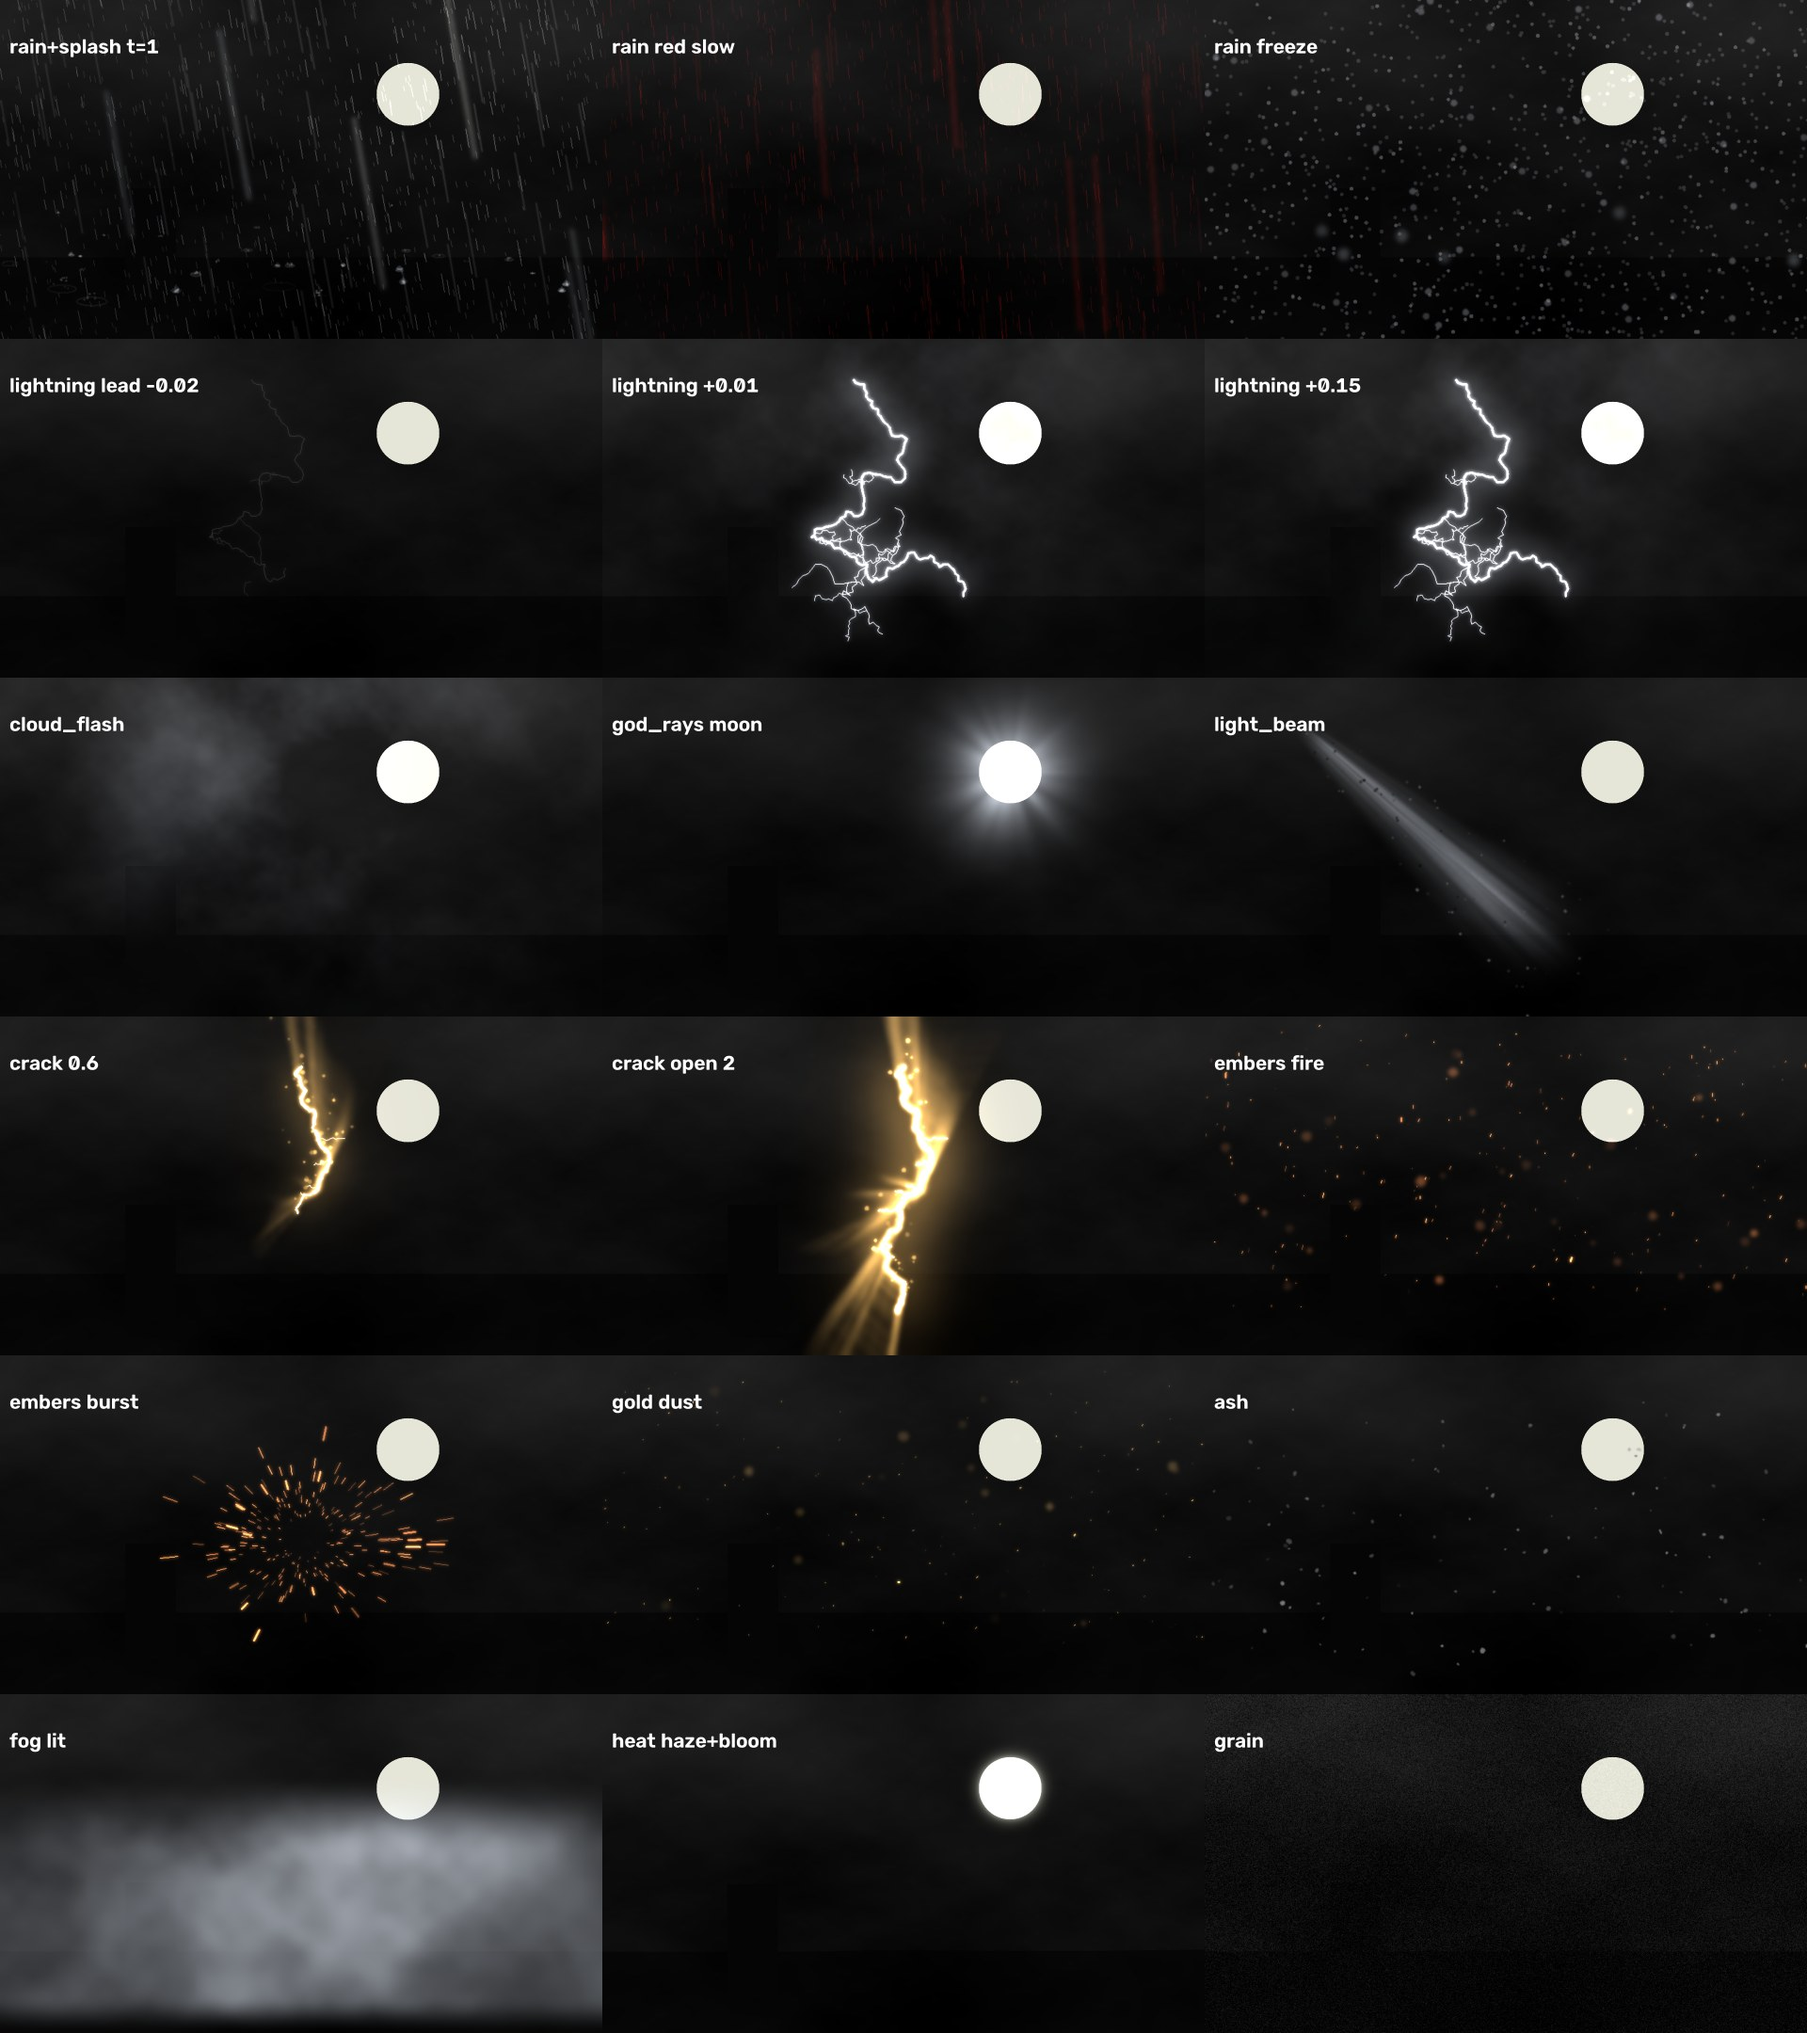
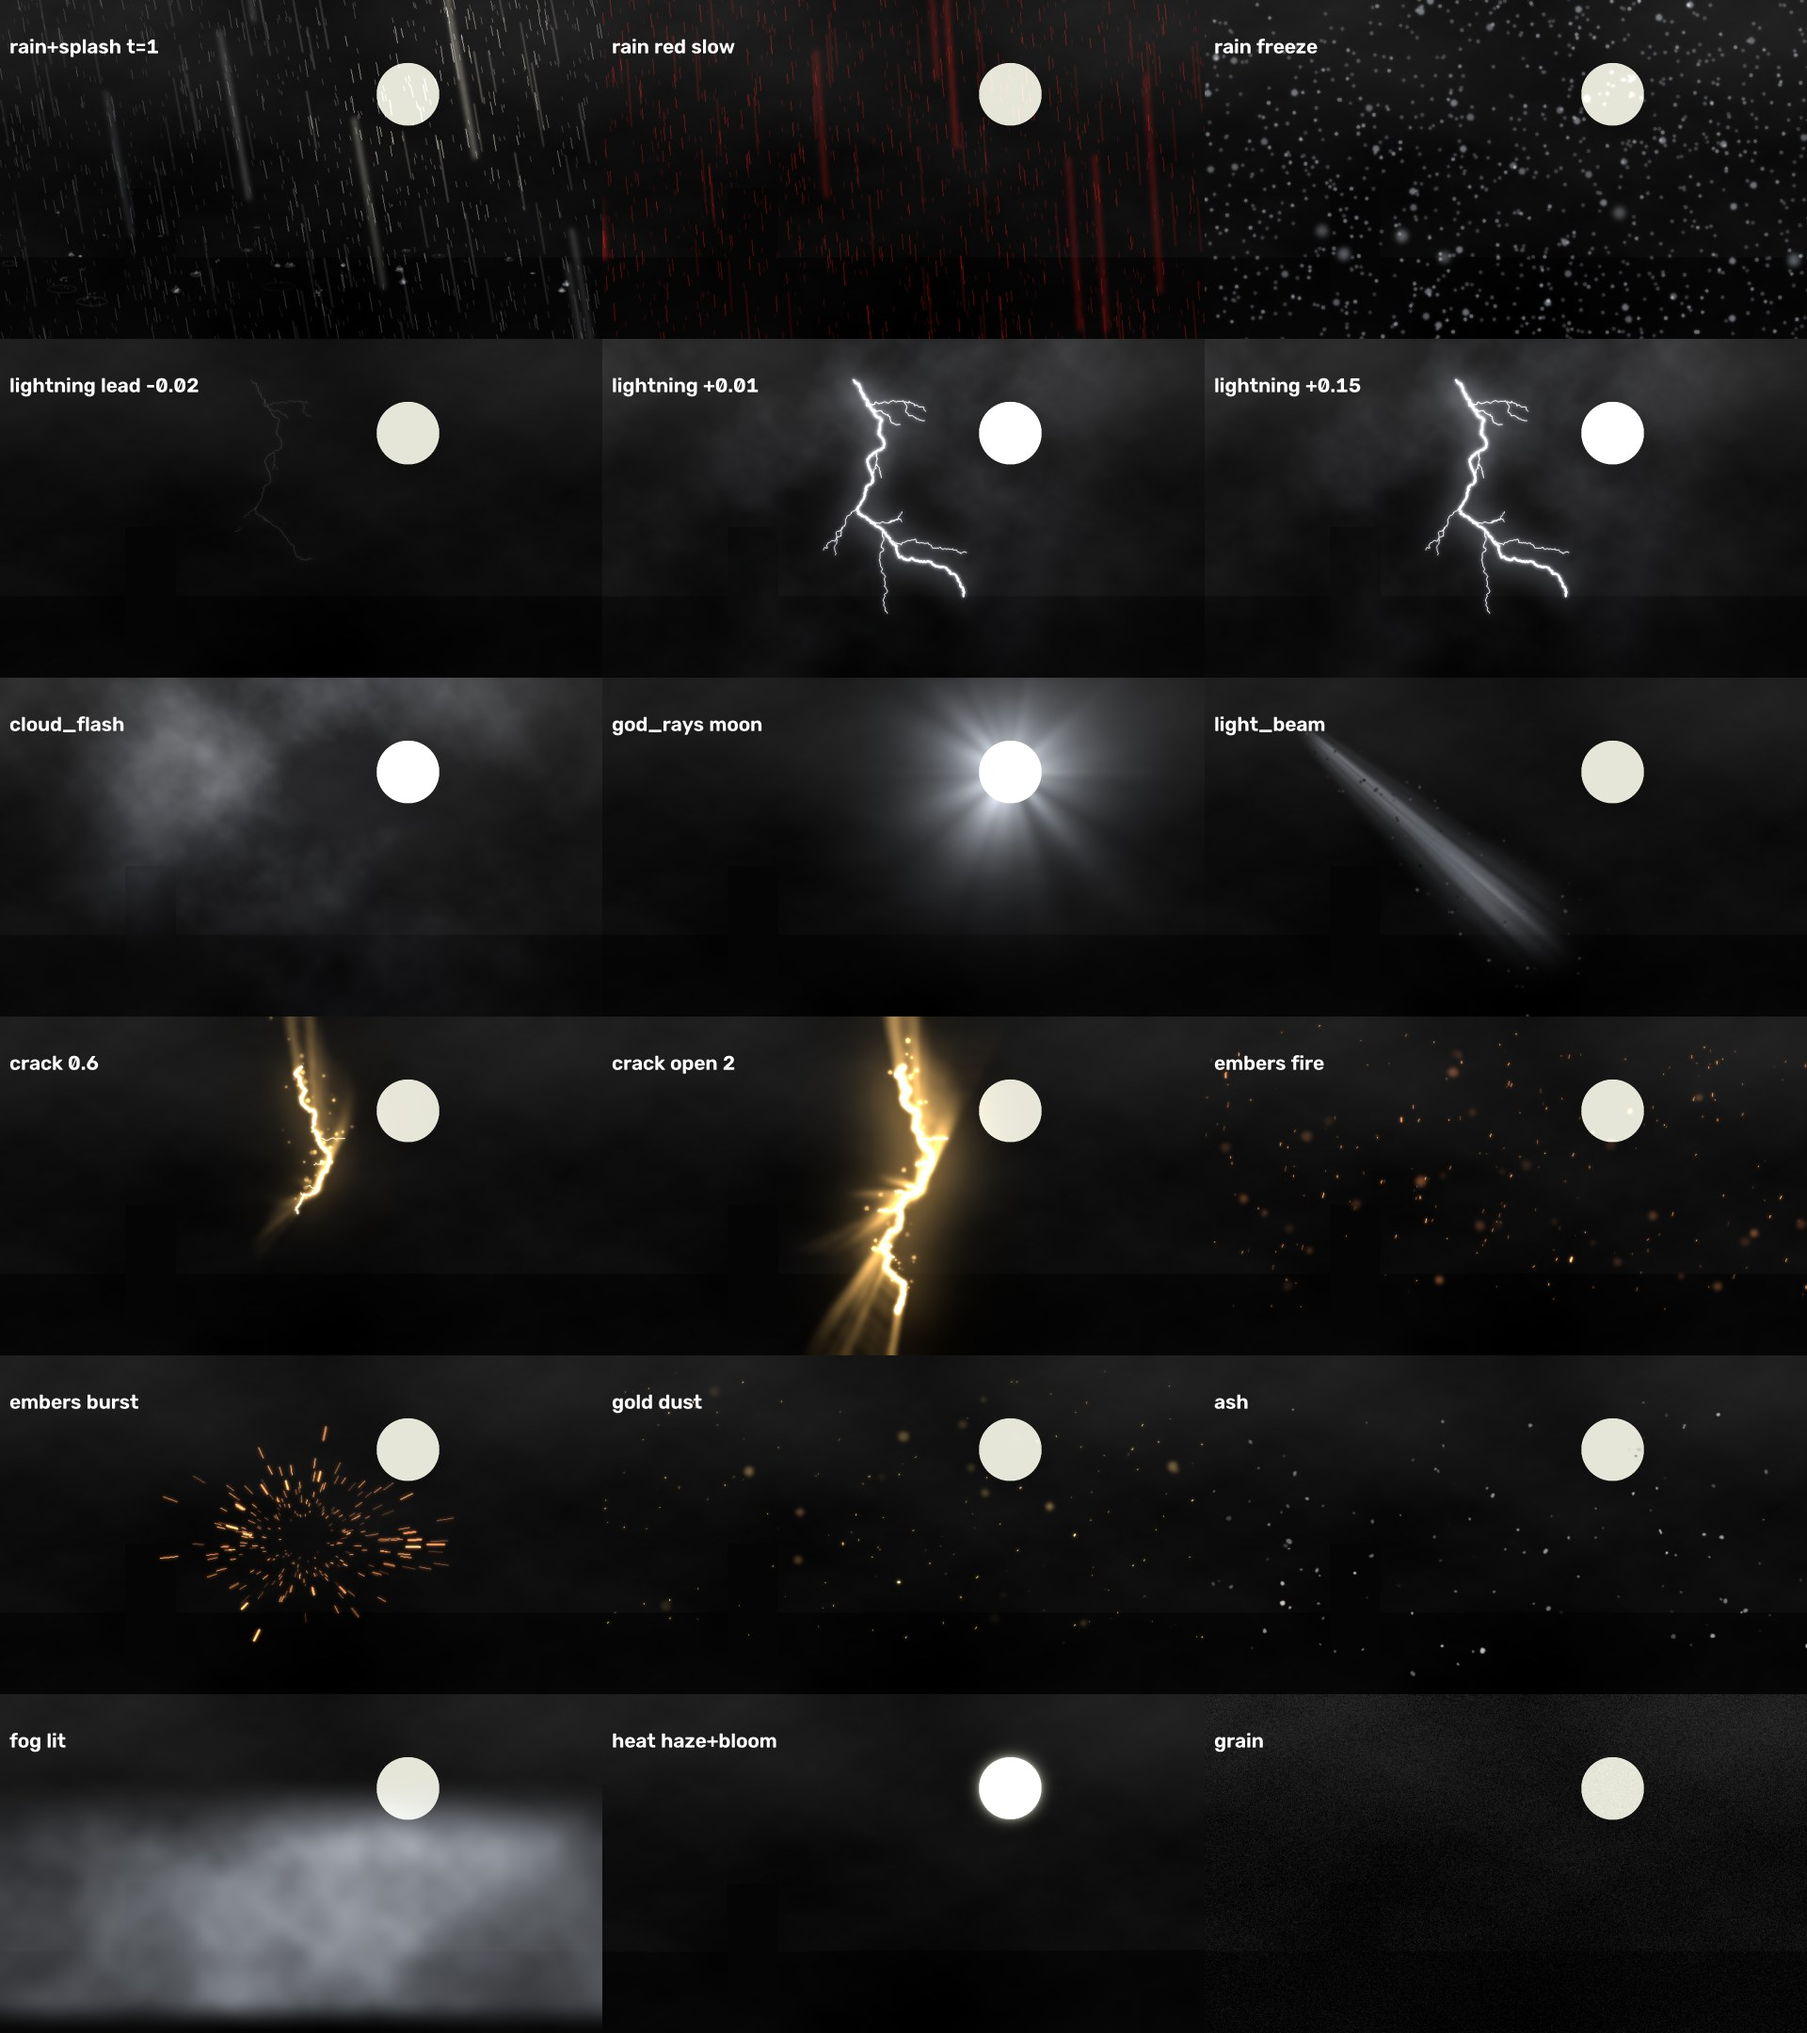
角色组: fx2 雨光特效库（雨幕/溅水/闪电/云内亮/体积光/光束/裂缝金光/余烬/雾）+联系表

diff --git a/lib/fx2.py b/lib/fx2.py
@@ -151,46 +151,49 @@ class RainSheet:
         if intensity <= 0: return fr
         a = math.radians(angle); ux, uy = math.sin(a), math.cos(a)
         col = _f32(color) * (1 - red) + (RED * 1.3) * red
+        acc = np.zeros((H // 2, W // 2), np.float32)
+        if light is not None:
+            gx = np.exp(-(((np.arange(W // 2) * 2 - light[0]) / light_r) ** 2))[None, :]
+            gy = np.exp(-(((np.arange(H // 2) * 2 - light[1]) / light_r) ** 2))[:, None]
+            lg = (gx * gy).astype(np.float32); accl = np.zeros_like(acc)
         for li, d in enumerate(self.L):
             if layers is not None and li not in layers: continue
-            n = int(len(d['x']) * min(1.0, intensity)); 
+            n = int(len(d['x']) * min(1.0, intensity))
             if n == 0: continue
             k = 2 if d['blur'] < 3 else 4                     # 渲染分辨率因子
             h, w = H // k, W // k
             buf = np.zeros((h, w), np.float32)
             v = d['v'] * d['vj'][:n]
             y = (d['y'][:n] + v * t * uy - cam[1] * d['par']) % (H * 1.6) - H * 0.3
-            x = (d['x'][:n] + v * t * ux - cam[0] * d['par'] - y * 0) % (W * 1.4) - W * 0.2
+            x = (d['x'][:n] + v * t * ux - cam[0] * d['par']) % (W * 1.4) - W * 0.2
             L = d['l'][:n]
             if freeze is not None:
                 L = L * (1 - freeze) + 1.0 * freeze
             x1 = x - ux * L; y1 = y - uy * L
             br = d['br'][:n]
-            if light is not None:
-                dd = np.hypot(x - light[0], y - light[1]) / light_r
-                br = br * (1 + 2.5 * np.exp(-dd * dd))
             sc = 8.0 / k
-            P = np.stack([np.stack([x1, y1], 1), np.stack([x, y], 1)], 1) * sc
-            P = np.round(P).astype(np.int32)
+            P = np.round(np.stack([np.stack([x1, y1], 1), np.stack([x, y], 1)], 1) * sc).astype(np.int32)
             for b0, b1, val in ((0, 0.4, 0.55), (0.4, 0.75, 0.8), (0.75, 9, 1.0)):
                 m = (br >= b0) & (br < b1)
                 if m.any():
                     if freeze is not None and freeze > 0.5:
+                        rr = int(max(8, d['w'] * 10 * sc / k))
                         for (px, py) in P[m][:, 1]:
-                            cv2.circle(buf, (int(px), int(py)), int(max(8, d['w'] * 10 * sc / k)), val, -1, cv2.LINE_AA, 3)
+                            cv2.circle(buf, (int(px), int(py)), rr, val, -1, cv2.LINE_AA, 3)
                     else:
-                        cv2.polylines(buf, list(P[m]), False, val, max(1, int(round(d['w'] / k * 1.0))), cv2.LINE_AA, 3)
-            if light is not None:
-                buf2 = buf
+                        cv2.polylines(buf, list(P[m]), False, val, max(1, int(round(d['w'] / k))), cv2.LINE_AA, 3)
             if d['blur'] > 0: buf = cv2.GaussianBlur(buf, (0, 0), d['blur'] / k)
             amt = d['a'] * min(1.5, intensity) * (1.0 if d['blur'] < 3 else 1.6)
-            lay = cv2.resize(buf, (W, H), interpolation=cv2.INTER_LINEAR)
-            # 雨丝：屏幕混合（亮背景上不过曝）
-            fr += lay[..., None] * col * amt * (1.05 - np.clip(fr, 0, 1) * 0.6)
-            if light is not None:
-                lx, ly = light
-                g = np.exp(-(((np.arange(W) - lx) / light_r) ** 2))[None, :] * np.exp(-(((np.arange(H) - ly) / light_r) ** 2))[:, None]
-                fr += (lay * g.astype(np.float32))[..., None] * (WHITE_GOLD * 0.6 * amt)
+            if k != 2: buf = cv2.resize(buf, (W // 2, H // 2), interpolation=cv2.INTER_LINEAR)
+            acc += buf * amt
+            if light is not None: accl += buf * amt * lg
+        if freeze is not None and freeze > 0.5:                 # 悬停雨珠：加一圈柔光
+            acc += cv2.GaussianBlur(acc, (0, 0), 2.0) * 0.8
+        lay = cv2.resize(acc, (W, H), interpolation=cv2.INTER_LINEAR)
+        col = col * (1 + 0.9 * red)
+        fr += lay[..., None] * col * (1.05 - np.clip(fr, 0, 1) * 0.6)
+        if light is not None:
+            fr = add(fr, accl, WHITE_GOLD, 2.2)
         return fr
 
 
@@ -265,18 +268,27 @@ def _bolt(rng, p0, p1, rough, depth):
         pts = new; disp *= 0.55
     return np.array(pts)
 
+def _kink(rng, pts, p0, p1, n=9, amp=0.06):
+    """在主干上加几处折线式急转（真实闪电的“之”字感）。"""
+    L = np.hypot(*(np.array(p1) - np.array(p0))); d = (np.array(p1) - np.array(p0)) / L; nrm = np.array([-d[1], d[0]])
+    knots = np.sort(rng.uniform(0, 1, n)); off = np.cumsum(rng.normal(0, amp * L, n)) * 0.6
+    off -= np.linspace(0, off[-1], n)
+    u = ((pts - np.array(p0)) @ d) / L
+    return pts + nrm[None] * np.interp(u, np.concatenate([[0], knots, [1]]), np.concatenate([[0], off, [0]]))[:, None]
+
 class Lightning:
     """闪电：主干（中点位移分形）+ 递归分叉 + 先导生长 + 多次回击闪烁。
-    Lightning(seed, p0=(x,y) 云端, p1=(x,y) 落点, branches=7, rough=0.22, depth=7)
+    Lightning(seed, p0=(x,y) 云端, p1=(x,y) 落点, branches=7, rough=0.09, depth=8)
     env(t, t0)                    → 0..~1 亮度包络（可给角色/场景补光用）
     draw(fr, t, t0, intensity=1, color=(0.93,0.95,1.0), grow=0.05, sky=0.35, width=3.0, glow=1.0)
       t0 = 闪电主击时刻；t0-grow..t0 先导自上而下生长（暗、细、分叉多），t0 起整根贯通爆亮并按 strokes 闪烁。
     cloud_flash(fr, t, t0, center, radius, seed, intensity) 云内亮（独立函数，可单独用作“云缝预亮”）。"""
     STROKES = ((0.0, 1.0), (0.075, 0.55), (0.14, 0.85), (0.27, 0.35))
 
-    def __init__(self, seed=0, p0=(900, 60), p1=(1060, 900), branches=7, rough=0.22, depth=7, gold=False):
+    def __init__(self, seed=0, p0=(900, 60), p1=(1060, 900), branches=7, rough=0.09, depth=8, gold=False):
         rng = np.random.default_rng(seed); self.seed = seed
         main = _bolt(rng, p0, p1, rough, depth)
+        main = _kink(rng, main, p0, p1)
         self.paths = [(main, 1.0, 0.0)]                  # (pts, 粗细系数, 起点在主干上的进度)
         n = len(main)
         for b in range(branches):
@@ -347,15 +359,15 @@ def cloud_flash(fr, t, t0=None, center=(960, 150), radius=700, seed=0, intensity
     cl = cloud if cloud is not None else scroll(noise(256, seed + 11, base=3, octaves=6), t * 6, 0, h, w, 1.6)
     yy, xx = np.mgrid[0:h, 0:w].astype(np.float32)
     d2 = ((xx * 4 - center[0]) ** 2 + (yy * 4 - center[1]) ** 2) / radius ** 2
-    L = np.exp(-d2) * (0.25 + 1.2 * np.clip(cl - 0.35, 0, 1) * 1.6) * env * intensity
+    L = np.exp(-d2) * (0.35 + 2.4 * np.clip(cl - 0.3, 0, 1) ** 1.2) * env * intensity
     L = cv2.resize(L.astype(np.float32), (W, H))
     if mask is not None: L *= mask
-    fr *= (1 + L[..., None] * 1.4)
-    return add(fr, L * 0.35, color, 1.0)
+    fr *= (1 + L[..., None] * 2.2)
+    return add(fr, L * 0.45, color, 1.0)
 
 
 # ============================================================== 体积光
-def god_rays(fr, src, emit=None, strength=1.0, length=0.6, color=GOLD, t=0.0, shafts=0.6, src_r=120, seed=0, passes=6,
+def god_rays(fr, src, emit=None, strength=1.0, length=1.0, color=GOLD, t=0.0, shafts=0.6, src_r=120, seed=0, passes=6,
              occluder=None):
     """体积光（丁达尔光柱）：从光源 src=(x,y) 向外的径向光束。
     emit     (H,W) 发光源图（如月盘、云缝、门缝的亮度）；None 则用半径 src_r 的光盘
@@ -566,8 +578,8 @@ class Embers:
                 sx = abs(math.cos(rot)) * s + 0.6; sy = s * 0.7
                 pts = cv2.ellipse2Poly((int(px / k * 4), int(py / k * 4)), (int(sx * 4 / k + 1), int(sy * 4 / k + 1)),
                                        int(math.degrees(self.ang[i])), 0, 360, 60)
-                cv2.fillPoly(ash_a, [pts], float(fade * (0.55 + 0.35 * near)), cv2.LINE_AA, 2)
-                cv2.fillPoly(ash_c, [pts], float(fade * (0.2 + 0.5 * abs(math.sin(rot)))), cv2.LINE_AA, 2)
+                cv2.fillPoly(ash_a, [pts], float(fade * (0.75 + 0.25 * near)), cv2.LINE_AA, 2)
+                cv2.fillPoly(ash_c, [pts], float(fade * (0.75 + 0.25 * near) * (0.2 + 0.8 * abs(math.sin(rot)))), cv2.LINE_AA, 2)
                 continue
             sl = 0.03 * (0.6 + near)
             qx, qy = px - vx * sl, py - vy * sl
@@ -580,12 +592,12 @@ class Embers:
                 if u < 0.45: cv2.circle(hot, (int(px / k * 8), int(py / k * 8)), max(1, w_), float(a * (1 - u / 0.45)), -1, cv2.LINE_AA, 3)
         if ash:
             A = cv2.resize(cv2.GaussianBlur(ash_a, (0, 0), 0.7), (W, H)); C = cv2.resize(cv2.GaussianBlur(ash_c, (0, 0), 0.7), (W, H))
-            col = (0.18 + 0.55 * C / np.maximum(A, 1e-3))[..., None] * np.array([1, 0.98, 0.95], np.float32)
+            col = (0.35 + 0.6 * C / np.maximum(A, 1e-3))[..., None] * np.array([1, 0.98, 0.95], np.float32)
             a3 = np.clip(A, 0, 1)[..., None] * intensity
             fr[:] = fr * (1 - a3) + col * a3
             return fr
         if self.mode == 'gold':
-            c1, c2 = color if color is not None else (GOLD, WHITE_GOLD)
+            c1, c2 = color if color is not None else (GOLD * 1.6, WHITE_GOLD)
         else:
             c1, c2 = (GOLD * 1.0 + RED * 0.6, WHITE_GOLD) if color is None else color
         g = cv2.GaussianBlur(sharp, (0, 0), 2.5)
